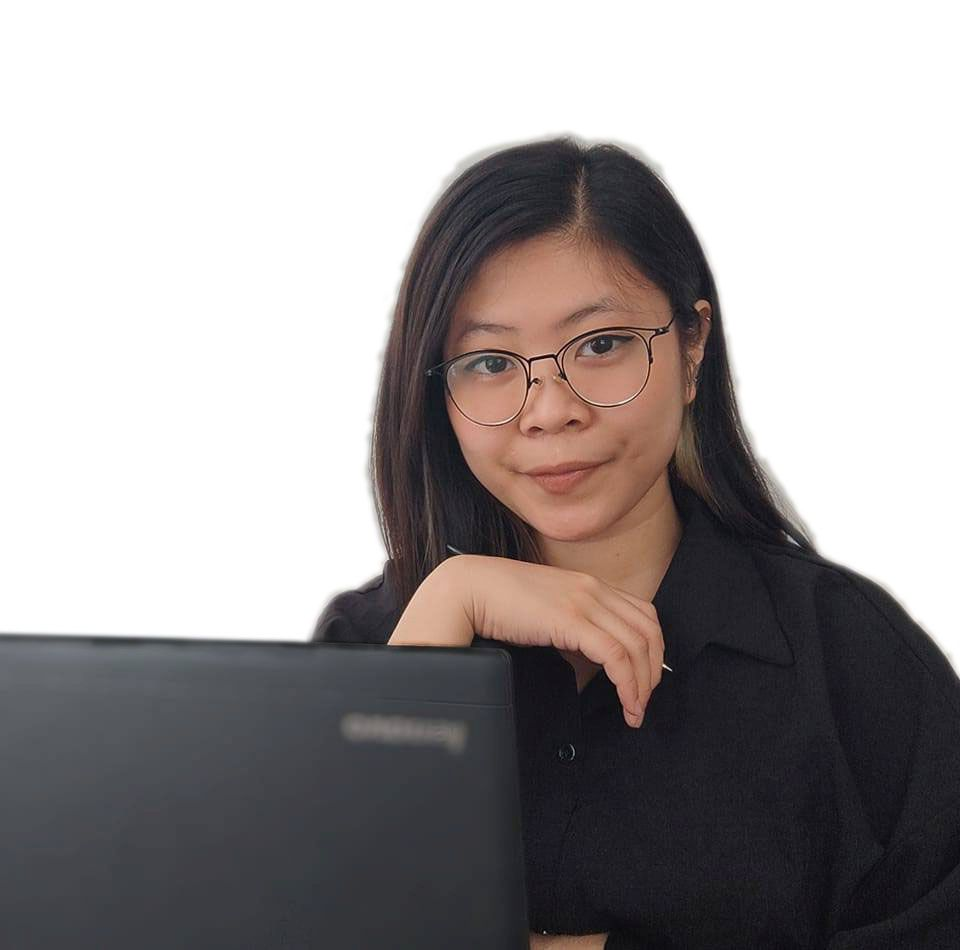
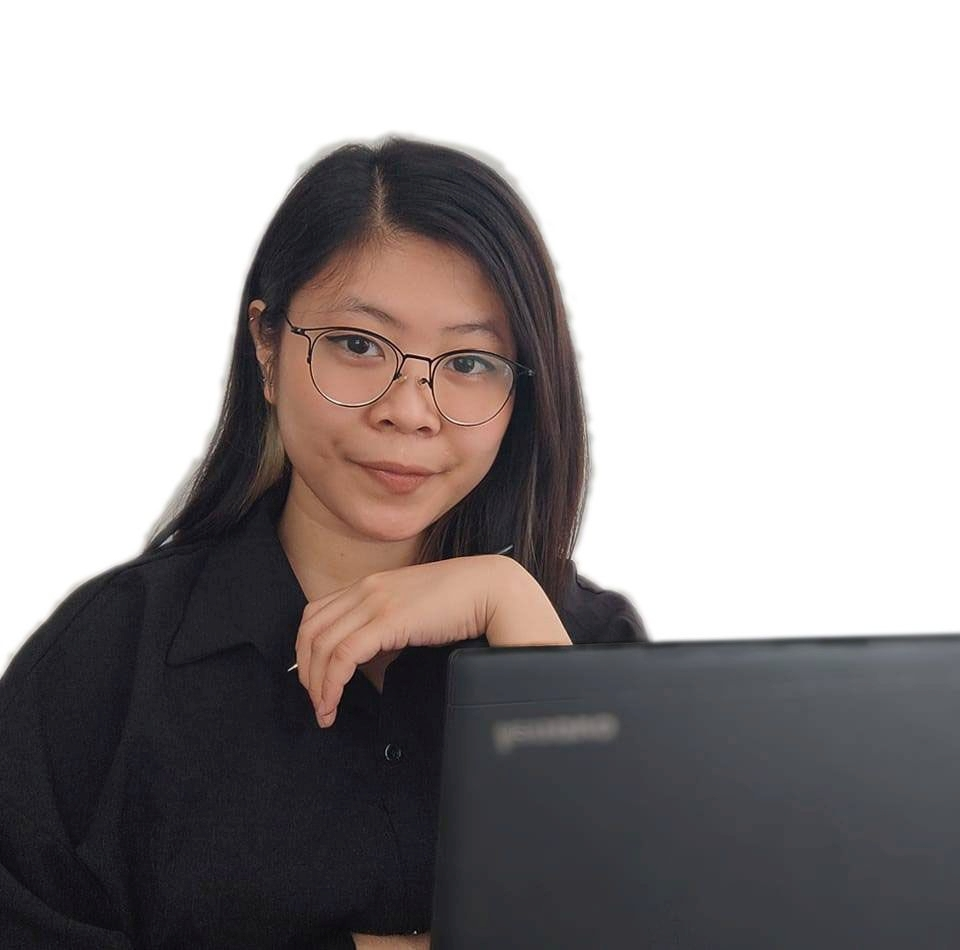
Started Working on Actual Design.
Moved Headshot image from inside container to Background of homeMain. (in progress).

diff --git a/css/style2.css b/css/style2.css
@@ -35,10 +35,10 @@ body {
 /******************************************
 /* LAYOUT
 /*******************************************/
-header, header nav ul, main, .fourColumn, .threeColumn, footer{
+header, header nav ul, .homeMain, .fourColumn, .threeColumn, footer{
   display: flex;
   justify-content: space-between;
-  padding: 0 5%;
+  /* padding: 0 5%; */
   /* border: #001440 solid 1px; */
 }
 body > * > *{
@@ -49,11 +49,9 @@ body > * > *{
   padding: 0 5% 1% 5%;
 }
 header{
-  padding: 0% 5%;
-}
-header{
   background: linear-gradient(to right, white, rgba(242, 189, 163, 1));
   height: 80px;
+  padding: 0% 5%;
 }
 header nav{
   flex: 0 1 90%;
@@ -71,6 +69,7 @@ header nav ul{
 header nav ul li{
   flex-grow: 1;
   justify-content: flex-end;
+  min-width: 120px;
 }
 header nav ul li a{
   color: white;
@@ -84,14 +83,31 @@ header nav ul li a{
 }
 
 header img{
- justify-content: flex-start;
+  justify-content: flex-start;
   max-width: 80px;
   max-height: 80px;
 }
-main{
-  justify-content: space-around;
+.homeMain{
+  display: flex;
+  min-height: 400px;
+  height: 100%;
+  width: 100%;
+  align-items: center;
+  justify-content: space-between;
+  background-image: url("../img/headshot.jpg");
+  background-repeat: no-repeat;
+  background-size: 400px 400px;
+  background-position: 20%;
 }
-main img{
+.homeMain section{
+  width: 100%;
+  display: flex;
+  align-items: center;
+  flex-direction: column;
+  min-height: 40%;
+  height: 50%;
+}
+.homeMain img{
   max-width: 400px;
   max-height: 400px;
 }

diff --git a/index.html b/index.html
@@ -34,9 +34,9 @@
 				<h1>Lorem ipsum dolor sit amet consectetur</h1>
 				<a href="#"><button id="bookWithMe" type="button" name="button">Book With Me</button></a>
 			</section>
-			<section>
+			<!-- <section>
 				<img src="img/headshot.jpg" alt="julianne">
-			</section>
+			</section> -->
 		</main>
 		<h2 class="fourColumnTitle columnTitle">Provided Services</h2>
 		<section class="fourColumn container">
@@ -102,7 +102,7 @@
 				<p>Lorem ipsum dolor sit amet consectetur adipisicing elit. Eos quas, suscipit voluptatum ducimus consequuntur aut dolor consectetur</p>
 			</section>
 		</section>
-		<section class="slickSlider">
+		<!-- <section class="slickSlider">
 			<button class="slickPrev slickArrow">
 
 			</button>
@@ -123,7 +123,7 @@
 					<h3>Lorem ipsum dolor sit amet.</h3>
 				</section>
 			<button class="slickNext slickArrow"></button>
-		</section>
+		</section> -->
 		<footer class="footer container">
 			<nav>
 				<ul>
